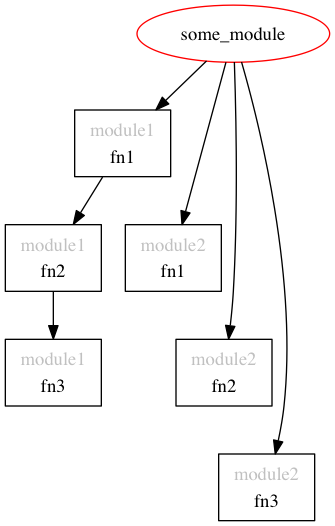
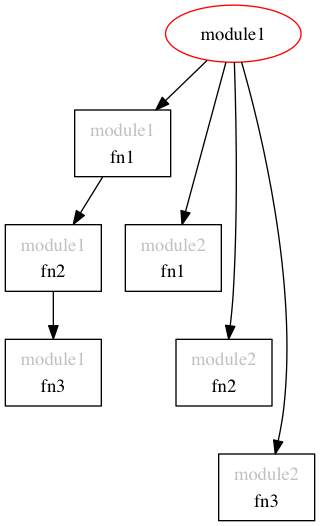
Modified images

diff --git a/simple_examples.py b/simple_examples.py
@@ -15,13 +15,13 @@ def graphCallStack(prefix):
     
     digraph = DiGraph({'format':'png'})
 
-    node = Node({'label':'some_module', 'color': 'red'})
+    node = Node({'label':'module1', 'color': 'red'})
 
     node.append(
         (
-            {'label': 'module:fn1'},
-            {'label': 'module:fn2'},
-            {'label': 'module:fn3'},
+            {'label': 'module1:fn1'},
+            {'label': 'module1:fn2'},
+            {'label': 'module1:fn3'},
         )
     )
     
@@ -32,13 +32,13 @@ def graphFunctionList(prefix):
     
     digraph = DiGraph({'format':'png'})
 
-    node = Node({'label':'some_module', 'color': 'blue'})
+    node = Node({'label':'module1', 'color': 'blue'})
 
     node.append(
         [
-            {'label': 'module:fn1'},
-            {'label': 'module:fn2'},
-            {'label': 'module:fn3'},
+            {'label': 'module1:fn1'},
+            {'label': 'module1:fn2'},
+            {'label': 'module1:fn3'},
         ]
     )
     
@@ -49,7 +49,7 @@ def graphBoth(prefix):
     
     digraph = DiGraph({'format':'png'})
 
-    node = Node({'label':'some_module', 'color': 'red'})
+    node = Node({'label':'module1', 'color': 'red'})
 
     node.append(
             (
